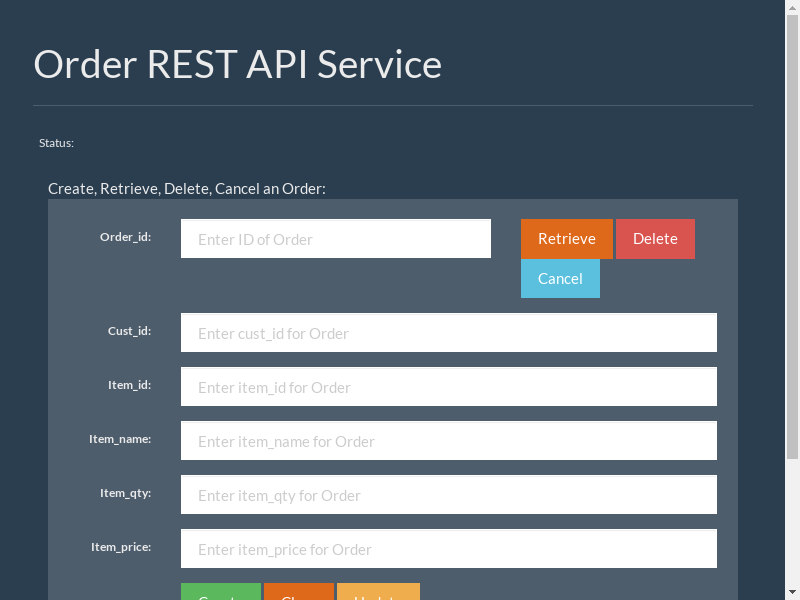
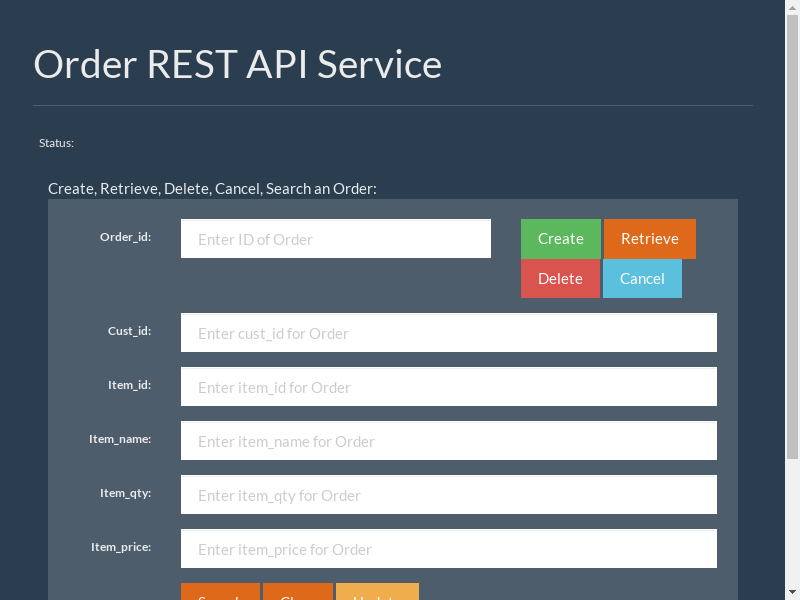
finish search ui

diff --git a/service/static/js/rest_api.js b/service/static/js/rest_api.js
@@ -122,18 +122,19 @@ $(function () {
             $("#search_results").empty();
             $("#search_results").append('<table class="table-striped" cellpadding="10">');
             var header = '<tr>'
-            header += '<th style="width:10%">order_id</th>'
-            header += '<th style="width:15%">cust_id</th>'
-            header += '<th style="width:15%">status</th>'
-            header += '<th style="width:15%">item_id</th>'
-            header += '<th style="width:15%">item_name</th>'
-            header += '<th style="width:15%">item_qty</th>'
-            header += '<th style="width:15%">item_price</th></tr>'
+            header += '<th style="width:10%">id</th>'
+            header += '<th style="width:10%">cust_id</th>'
+            header += '<th style="width:20%">status</th>'
+            header += '<th style="width:10%">item_id</th>'
+            header += '<th style="width:20%">item_name</th>'
+            header += '<th style="width:20%">item_qty</th>'
+            header += '<th style="width:20%">item_price</th></tr>'
             $("#search_results").append(header);
             var firstOrder = "";
             for(var i = 0; i < res.length; i++) {
                 var order = res[i];
-                var row = "<tr><td>"+order.order_id+"</td><td>"+order.cust_id+"</td><td>"+order.status+"</td><td>"+order.item_id+"</td><td>"+order.item_name+"</td><td>"+order.item_qty+"</td><td>"+order.item_price+"</td><tr>";
+                first_order_items = order.order_items[0]
+                var row = "<tr><td>"+order.id+"</td><td>"+order.cust_id+"</td><td>"+order.status+"</td><td>"+first_order_items.item_id+"</td><td>"+first_order_items.item_name+"</td><td>"+first_order_items.item_qty+"</td><td>"+first_order_items.item_price+"</td><tr>";
                 $("#search_results").append(row);
                 if (i == 0) {
                     firstOrder = order;
@@ -216,7 +217,8 @@ $(function () {
         clear_form_data()
     });
 
-          // ****************************************
+
+    // ****************************************
     // Update Order
     // ****************************************
 

diff --git a/service/static/index.html b/service/static/index.html
@@ -92,11 +92,11 @@
             <thead>
             <tr>
                 <th class="col-md-1">order_id</th>
-                <th class="col-md-2">cust_id</th>
+                <th class="col-md-1">cust_id</th>
                 <th class="col-md-2">status</th>
-                <th class="col-md-2">item_id</th>
+                <th class="col-md-1">item_id</th>
                 <th class="col-md-2">item_name</th>
-                <th class="col-md-2">item_qty</th>
+                <th class="col-md-1">item_qty</th>
                 <th class="col-md-2">item_price</th>
             </tr>
             </thead>
